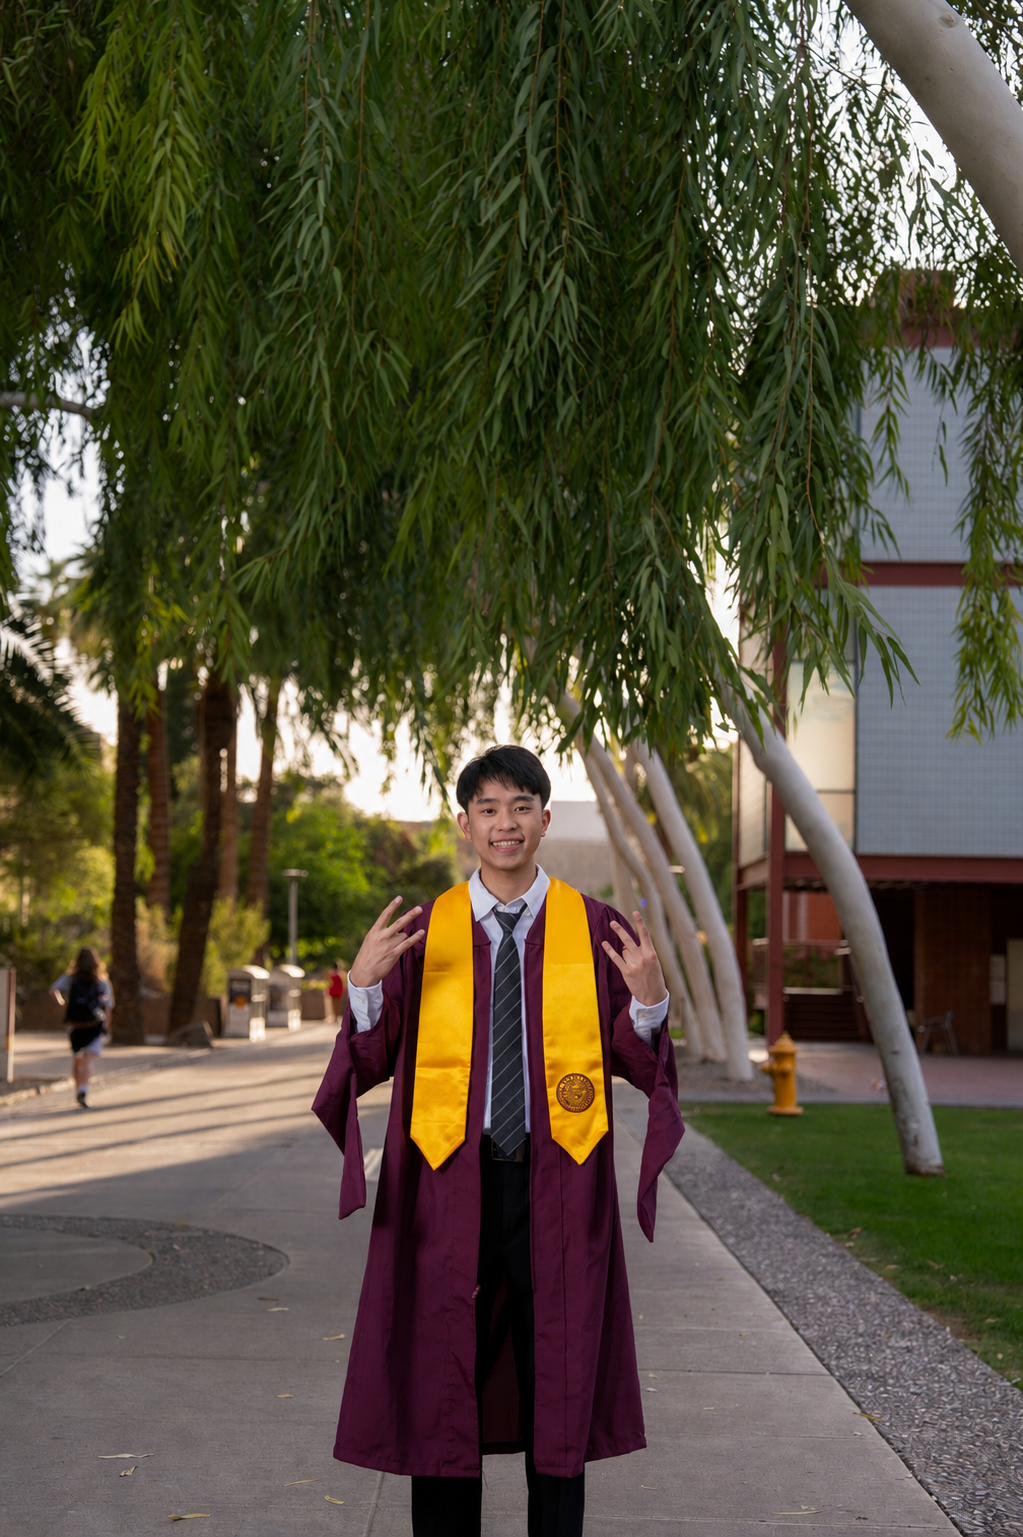
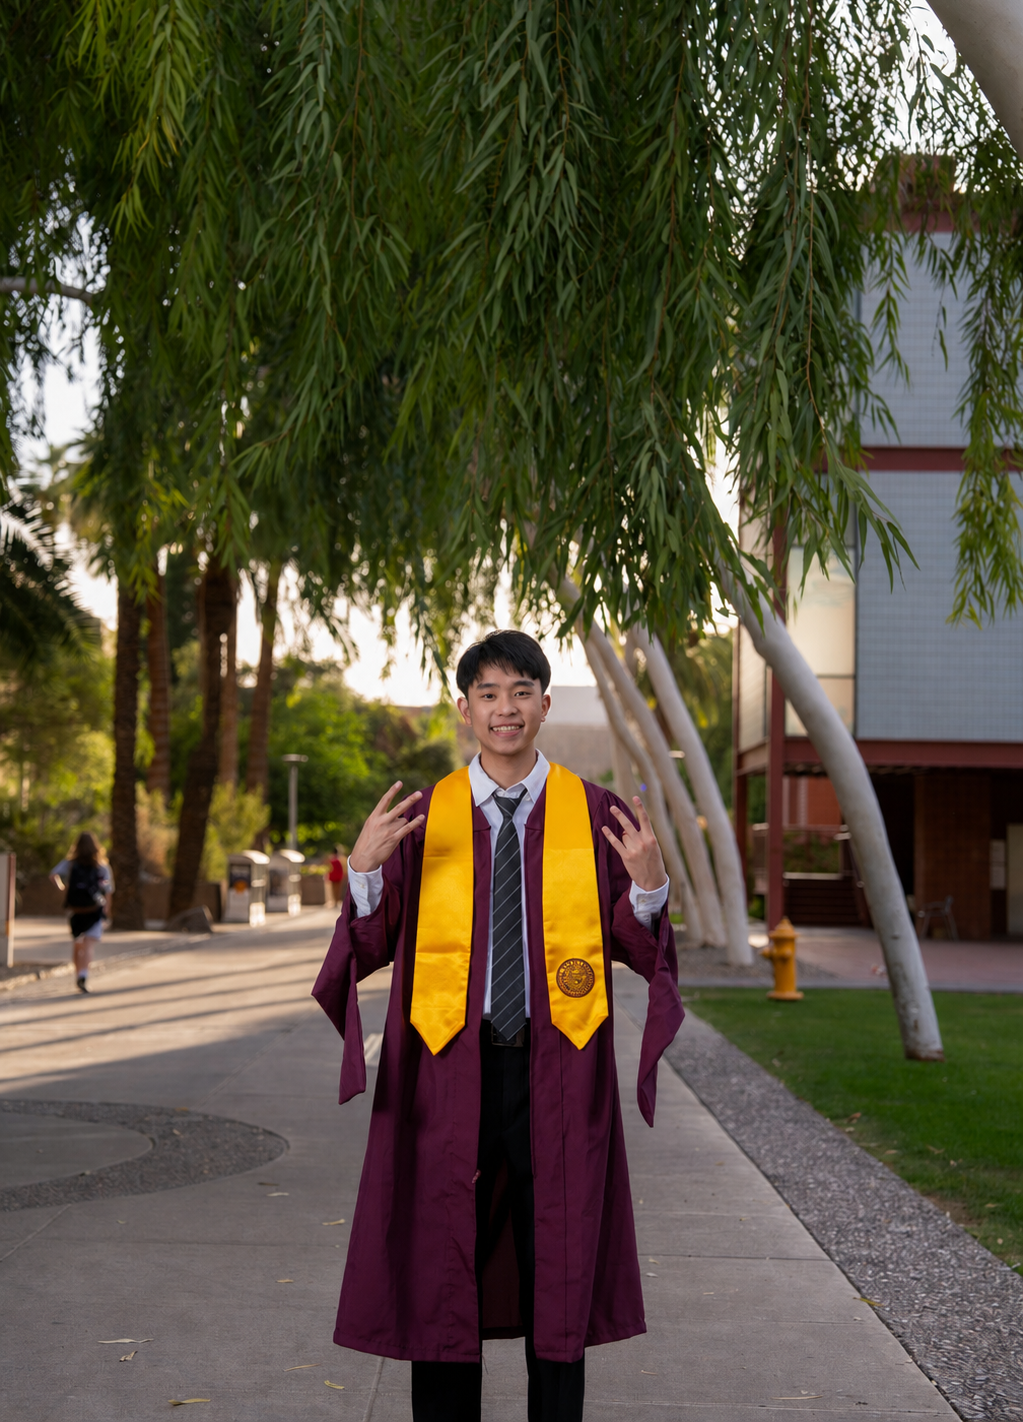
Update Research Projects

diff --git a/index.html b/index.html
@@ -103,6 +103,7 @@
                         <h3>Key Skills</h3>
                         <ul>
                             <li>Programming: Python, SQL, R, MATLAB</li>
+                            <li>Semiconductor Manufacturing & Process Engineering</li>
                             <li>Machine Learning (Scikit-learn, XGBoost, SVM)</li>
                             <li>End-to-end Full Stack Development (React.js, FastAPI, PostgreSQL)</li>
                             <li>Clinical Trial Data Analytics & Business Intelligence (Tableau, Power BI)</li>
@@ -115,6 +116,7 @@
                         </div>
                         <h3>Research Projects</h3>
                         <ul>
+                            <li>EnKiteDDI: Literature-Enhanced Drug-Drug Interaction Event Prediction</li>
                             <li>AI-based LLM content safety and moderation systems</li>
                             <li>Predicting Coral Bleaching Using NCAA Database</li>
                             <li>Applied Statistical Testing on Socioeconomic Impact Using NHANES Data</li>
@@ -131,21 +133,22 @@
         <div class="container">
             <h2 class="section-title">About Me</h2>
             <div class="about-content">
+                <h3 class="about-subtitle">AI Engineer | Semiconductor & Healthcare Data Science</h3>
+                <div class="about-main">
                 <div class="about-text">
-                    <h3>Biological Data Science Graduate Student</h3>
-                    <p>I am a graduate student in Biological Data Science at ASU with a background in biomedical engineering and a strong focus on applying data-driven solutions to complex healthcare and research problems. My expertise includes machine learning, biosignal processing, clinical data analysis, and end-to-end system development.</p>
-                    <p>During my recent summer internship, I developed an end-to-end AI safety detection system to improve LLM moderation reliability, combining custom-trained models with full-stack deployment. Currently, my master’s thesis focuses on drug–drug interaction prediction using LLMs and graph generative networks (GGNs), aiming to enhance pharmaceutical safety through deep learning and biomedical knowledge graphs.</p>
-                    <p>My interdisciplinary background allows me to bridge the gap between biomedical challenges and AI-driven solutions. Whether through system development or clinical data analysis, I strive to deliver impactful, scalable technologies that improve real-world outcomes.</p>
+                    <p>AI Engineer & Data Scientist with a background in Biological Data Science and biomedical engineering, specializing in machine learning, full-stack AI systems, and data-driven solutions across healthcare and semiconductor industries.</p>
+                    <p>Recently, I gained semiconductor industry experience at Lam Research, working in a fast-paced engineering environment focused on advanced manufacturing technologies, engineering operations, and data-driven problem solving. Previously, during my AI engineering internship, I developed an end-to-end AI safety detection platform to improve LLM moderation reliability through custom model development and scalable full-stack deployment. My research focuses on machine learning applications in biomedical informatics and pharmaceutical safety. I recently developed EnKiteDDI, a drug–drug interaction (DDI) prediction model designed to improve medication safety and support biomedical decision-making through advanced predictive modeling techniques.</p>
+                    <p>With interdisciplinary experience spanning AI, software engineering, healthcare analytics, and semiconductor technologies, I aim to build scalable intelligent systems that bridge cutting-edge research with real-world industrial impact.</p>
                 </div>
                 <div class="about-image">
                     <!-- 選項1：圓形照片（會裁切但保持圓形） -->
                     <!-- <img src="images/kevin-about.jpg" alt="Kevin Yu" class="about-photo"> -->
                     
                     <!-- 選項2：長方形照片（完整顯示不裁切） -->
-                    <!-- <img src="images/kevin-about.jpg" alt="Kevin Yu" class="about-photo-rectangle"> -->
+                    <img src="images/grad.png" alt="Kevin Yu" class="about-photo-rectangle">
                     
                     <!-- 選項3：不規則有機形狀（自然感） -->
-                    <img src="images/graph.png" alt="Kevin Yu" class="about-photo-organic">
+                    <!--<img src="images/graph.png" alt="Kevin Yu" class="about-photo-organic">-->
                     
                     <!-- 標籤區域 -->
                     <div class="about-tags">
@@ -159,6 +162,7 @@
                         <i class="fas fa-user-circle"></i>
                     </div>
                 </div>
+                </div>
             </div>
         </div>
     </section>
@@ -169,11 +173,39 @@
             <h2 class="section-title">Research Projects</h2>
             <div class="portfolio-filter">
                 <button class="filter-btn active" data-filter="all">ALL</button>
-                <button class="filter-btn" data-filter="data">Data</button>
                 <button class="filter-btn" data-filter="ai">AI Systems</button>
+                <button class="filter-btn" data-filter="data">Data</button>
                 <button class="filter-btn" data-filter="biomedical">Biomedical</button>
             </div>
             <div class="portfolio-grid">
+                <!-- AI Systems 類別專案 -->
+                <div class="portfolio-item" data-category="ai">
+                    <div class="portfolio-image">
+                        <img src="images/project-ddi-prediction.jpg" alt="EnKiteDDI" class="project-image">
+                        <div class="image-placeholder" style="display: none;">
+                            <i class="fas fa-brain"></i>
+                        </div>
+                        <div class="portfolio-overlay">
+                            <h3>EnKiteDDI: Literature-Enhanced Drug-Drug Interaction Event Prediction</h3>
+                            <p>Machine learning framework for predicting drug–drug interaction events using biomedical literature-informed feature engineering and predictive analytics</p>
+                            <a href="enkiteddi.html" class="portfolio-link">View Details</a>
+                        </div>
+                    </div>
+                </div>
+                <div class="portfolio-item" data-category="ai">
+                    <div class="portfolio-image">
+                        <img src="images/project-llm-safety.jpg" alt="LLM Safety System" class="project-image">
+                        <div class="image-placeholder" style="display: none;">
+                            <i class="fas fa-shield-alt"></i>
+                        </div>
+                        <div class="portfolio-overlay">
+                            <h3>AI-based LLM Content Safety and Moderation Systems</h3>
+                            <p>End-to-end AI safety detection system for large language model content moderation</p>
+                            <a href="llm-safety.html" class="portfolio-link">View Details</a>
+                        </div>
+                    </div>
+                </div>
+
                 <!-- Data 類別專案 -->
                 <div class="portfolio-item" data-category="data">
                     <div class="portfolio-image">
@@ -198,34 +230,6 @@
                             <h3>Applied Statistical Testing on Socioeconomic Impact Using NHANES Data</h3>
                             <p>Statistical analysis of health and socioeconomic factors using national survey data</p>
                             <a href="nhanes.html" class="portfolio-link">View Details</a>
-                        </div>
-                    </div>
-                </div>
-                
-                <!-- AI Systems 類別專案 -->
-                <div class="portfolio-item" data-category="ai">
-                    <div class="portfolio-image">
-                        <img src="images/project-ddi-prediction.jpg" alt="DDI Prediction System" class="project-image">
-                        <div class="image-placeholder" style="display: none;">
-                            <i class="fas fa-brain"></i>
-                        </div>
-                        <div class="portfolio-overlay">
-                            <h3>Unveiling DDI Mechanisms: A Hybrid LLM-GNN Approach for Prediction and Interpretation</h3>
-                            <p>Advanced AI system combining Large Language Models and Graph Neural Networks for drug interaction prediction</p>
-                            <a href="ddi-llm-gnn.html" class="portfolio-link">View Details</a>
-                        </div>
-                    </div>
-                </div>
-                <div class="portfolio-item" data-category="ai">
-                    <div class="portfolio-image">
-                        <img src="images/project-llm-safety.jpg" alt="LLM Safety System" class="project-image">
-                        <div class="image-placeholder" style="display: none;">
-                            <i class="fas fa-shield-alt"></i>
-                        </div>
-                        <div class="portfolio-overlay">
-                            <h3>AI-based LLM Content Safety and Moderation Systems</h3>
-                            <p>End-to-end AI safety detection system for large language model content moderation</p>
-                            <a href="llm-safety.html" class="portfolio-link">View Details</a>
                         </div>
                     </div>
                 </div>

diff --git a/enkiteddi.html b/enkiteddi.html
@@ -3,7 +3,7 @@
 <head>
     <meta charset="UTF-8">
     <meta name="viewport" content="width=device-width, initial-scale=1.0">
-    <title>Unveiling DDI Mechanisms: A Hybrid LLM-GNN Approach for Prediction and Interpretation</title>
+    <title>EnKiteDDI: Literature-Enhanced Drug-Drug Interaction Event Prediction</title>
     <link rel="stylesheet" href="styles.css">
     <link rel="stylesheet" href="https://cdnjs.cloudflare.com/ajax/libs/font-awesome/6.0.0/css/all.min.css">
     <link href="https://fonts.googleapis.com/css2?family=Inter:wght@300;400;500;600;700&display=swap" rel="stylesheet">
@@ -38,7 +38,7 @@
             </div>
 
             <div class="project-header">
-                <h1 class="project-title">Unveiling DDI Mechanisms: A Hybrid LLM-GNN Approach for Prediction and Interpretation</h1>
+                <h1 class="project-title">EnKiteDDI: Literature-Enhanced Drug-Drug Interaction Event Prediction</h1>
                 <div class="project-meta">
                     <div class="meta-item"><i class="fas fa-calendar-alt"></i><span>Jul 2025 - May 2026</span></div>
                     <div class="meta-item"><i class="fas fa-map-marker-alt"></i><span>Arizona State University</span></div>
@@ -48,21 +48,21 @@
 
             <div class="project-summary">
                 <h2>Abstract</h2>
-                <p>Polypharmacy increases the risk of harmful drug–drug interactions (DDIs), yet current detection methods are limited by scale and cost. This project proposes a novel framework combining Large Language Models (LLMs) and Graph Neural Networks (GNNs) to extract biomedical knowledge from unstructured text and predict DDIs through biological network reasoning. The goal is to enhance DDI discovery with interpretable, mechanism-level insights, contributing to safer and more informed clinical decision-making.</p>
+                <p>Drug-drug interactions (DDI) can cause serious adverse events, and modern event-based DDI prediction models still struggle to exploit literature evidence at the pair level and to generalize under severe class imbalance. We propose EnKiteDDI, a literature-enhanced extension of KiteDDI that keeps the original SMILES encoder and DRKG-based knowledge graph (KG) branch unchanged, and augments them with a compact SemMedDB-derived feature vector for each drug pair. Our final configuration, EnKiteDDI (+PMID, 9-dim), augments KiteDDI with an interpretable SemMedDB-derived pairwise feature vector encoding relation presence, predicate types, co-occurrence frequency, and the number of supporting PubMed articles (PMIDs), enabling improved prediction and traceability to the literature. We compare the proposed method with representative baselines on two DrugBank-derived benchmarks, db1-65 and db2-100, under validation, unseen-pair (U1), and unseen-drug (U2) splits. Together with an ablation study, experimental results demonstrate that low-dimensional, literature-derived pairwise signals offer an effective and practical way to enhance KG-integrated DDI models.</p>
             </div>
 
             <div class="project-content">
                 <div class="content-section">
                     <h2>The What</h2>
                     <div class="content-text">
-                        <p><em>Project in progress - content coming soon</em></p>
+                        <p>Developed EnKiteDDI, a novel extension of the KiteDDI architecture for event-based DDI prediction. The project enhances traditional knowledge graph-based DDI models by incorporating literature-derived evidence from SemMedDB to improve prediction accuracy, interpretability, and robustness under highly imbalanced biomedical datasets</p>
                     </div>
                 </div>
 
                 <div class="content-section">
                     <h2>The How</h2>
                     <div class="content-text">
-                        <p><em>Project in progress - content coming soon</em></p>
+                        <p>Built a literature-enhanced deep learning framework that combines Transformer-based SMILES molecular encoding, DRKG biomedical knowledge graph embeddings, and SemMedDB-derived pairwise literature features to improve event-based drug–drug interaction prediction. The model integrates compact PMID-supported biomedical relation features into the original KiteDDI architecture through an additional MLP fusion module and was evaluated under unseen-pair and unseen-drug inductive settings on DrugBank-derived benchmarks.</p>
                     </div>
                 </div>
 
@@ -70,7 +70,11 @@
                     <h2>Results & Impact</h2>
                     <div class="results-content">
                         <div class="results-text">
-                            <p><em>Project in progress - results coming soon</em></p>
+                            <p>EnKiteDDI consistently matched or outperformed multiple state-of-the-art DDI prediction baselines across the db1-65 and db2-100 benchmarks, particularly improving AUPR and AUC under severe class imbalance and unseen-drug evaluation settings. The proposed PMID-enhanced feature design improved both predictive performance and model interpretability by linking interaction predictions to supporting biomedical literature evidence. Experimental results demonstrated that compact literature-derived signals can effectively enhance knowledge graph-integrated DDI models while maintaining scalability and low feature complexity.</p>
+                        </div>
+                        <div class="results-images results-images-stack">
+                            <img src="images/enkiteddi-table.png" alt="EnKiteDDI Benchmark Results Table">
+                            <img src="images/enkiteddi-aupr.png" alt="EnKiteDDI AUPR Performance">
                         </div>
                     </div>
                 </div>
@@ -79,16 +83,18 @@
             <div class="project-technologies">
                 <h3>Technologies Used</h3>
                 <div class="tech-tags">
+                    <span class="tech-tag">ML/Deep Learning</span>
                     <span class="tech-tag">Python</span>
-                    <span class="tech-tag">GNN</span>
-                    <span class="tech-tag">LLM</span>
+                    <span class="tech-tag">Biomedical Data</span>
+                    <span class="tech-tag">NLP / Literature Mining</span>
+                    <span class="tech-tag">Data Sources</span>
                 </div>
             </div>
 
             <div class="project-links">
                 <h3>Related Links</h3>
                 <div class="link-buttons">
-                    <a class="link-button" href="#" target="_blank" rel="noopener noreferrer">View Code</a>
+                    <a class="link-button" href="https://github.com/K1vinY/EnKiteDDI" target="_blank" rel="noopener noreferrer">View Code</a>
                 </div>
             </div>
         </div>
@@ -104,5 +110,3 @@
     
 </body>
 </html>
-
-

diff --git a/styles.css b/styles.css
@@ -435,16 +435,22 @@ body {
 }
 
 .about-content {
-    display: grid;
-    grid-template-columns: 2fr 1fr;
-    gap: 4rem;
-    align-items: center;
+    display: flex;
+    flex-direction: column;
+    gap: 1rem;
 }
 
-.about-text h3 {
+.about-subtitle {
     font-size: 2rem;
     color: var(--mocha-mus);
-    margin-bottom: 1rem;
+    margin-bottom: 0.5rem;
+}
+
+.about-main {
+    display: grid;
+    grid-template-columns: 1.4fr 1fr;
+    gap: 3rem;
+    align-items: center;
 }
 
 .about-text p {
@@ -488,11 +494,11 @@ body {
 .about-image {
     display: flex;
     flex-direction: column;
-    justify-content: flex-start;
+    justify-content: center;
     align-items: center;
     height: 100%;
     min-height: 400px;
-    padding-top: 2rem;
+    padding-top: 0;
 }
 
 /* 關於我照片樣式 - 選項1：圓形但智能裁切 */
@@ -513,9 +519,10 @@ body {
 
 /* 關於我照片樣式 - 選項2：長方形完整顯示 */
 .about-photo-rectangle {
-    width: 250px;
-    height: auto; /* 讓高度根據照片比例自動調整 */
-    max-height: 300px; /* 設定最大高度限制 */
+    width: 100%;
+    max-width: 380px;
+    height: auto;
+    max-height: 520px;
     border-radius: 15px;
     object-fit: contain;
     object-position: center;
@@ -1311,6 +1318,10 @@ body {
     }
     
     .about-content {
+        text-align: center;
+    }
+
+    .about-main {
         grid-template-columns: 1fr;
         text-align: center;
         align-items: center;
@@ -1319,7 +1330,8 @@ body {
     .about-image {
         min-height: auto;
         margin-top: 2rem;
-        padding-top: 1rem;
+        padding-top: 0;
+        justify-content: center;
     }
     
     .about-stats {
@@ -1328,14 +1340,15 @@ body {
     }
     
     .about-photo {
-        width: 250px;
-        height: 250px;
+        width: 300px;
+        height: 300px;
     }
     
     .about-photo-rectangle {
-        width: 200px;
+        width: 100%;
+        max-width: 320px;
         height: auto;
-        max-height: 250px;
+        max-height: 420px;
     }
     
     .about-photo-organic {
@@ -1465,9 +1478,10 @@ body {
     }
     
     .about-photo-rectangle {
-        width: 180px;
+        width: 90%;
+        max-width: 300px;
         height: auto;
-        max-height: 220px;
+        max-height: 380px;
     }
     
     .about-photo-organic {
@@ -1771,6 +1785,13 @@ html {
     gap: 1.5rem;
     align-items: center; /* 垂直置中：中心對中心 */
     justify-items: center; /* 水平置中（保險） */
+}
+
+.results-images.results-images-stack {
+    grid-template-columns: 1fr;
+    max-width: 900px;
+    margin-left: auto;
+    margin-right: auto;
 }
 
 .results-images img {

diff --git a/README.md b/README.md
@@ -14,7 +14,7 @@ This portfolio features:
 
 - **Predicting Coral Bleaching Using NCAA Database** - Machine learning analysis using NOAA database
 - **Applied Statistical Testing on Socioeconomic Impact Using NHANES Data** - Statistical testing on socioeconomic health impacts
-- **Unveiling DDI Mechanisms: A Hybrid LLM-GNN Approach for Prediction and Interpretation** - Hybrid LLM-GNN approach for drug interaction prediction
+- **EnKiteDDI: Literature-Enhanced Drug-Drug Interaction Event Prediction** - Literature-enhanced DDI event prediction framework
 - **AI-based LLM Content Safety and Moderation Systems** - Content moderation and safety frameworks
 - **Development of Assistive Listening Device and Clinical Trials** - Assistive listening technology with clinical trials
 - **Combination of Ear-EEG and Masking in Earphone for Tinnitus Improvements** - Ear-EEG and masking technology research
